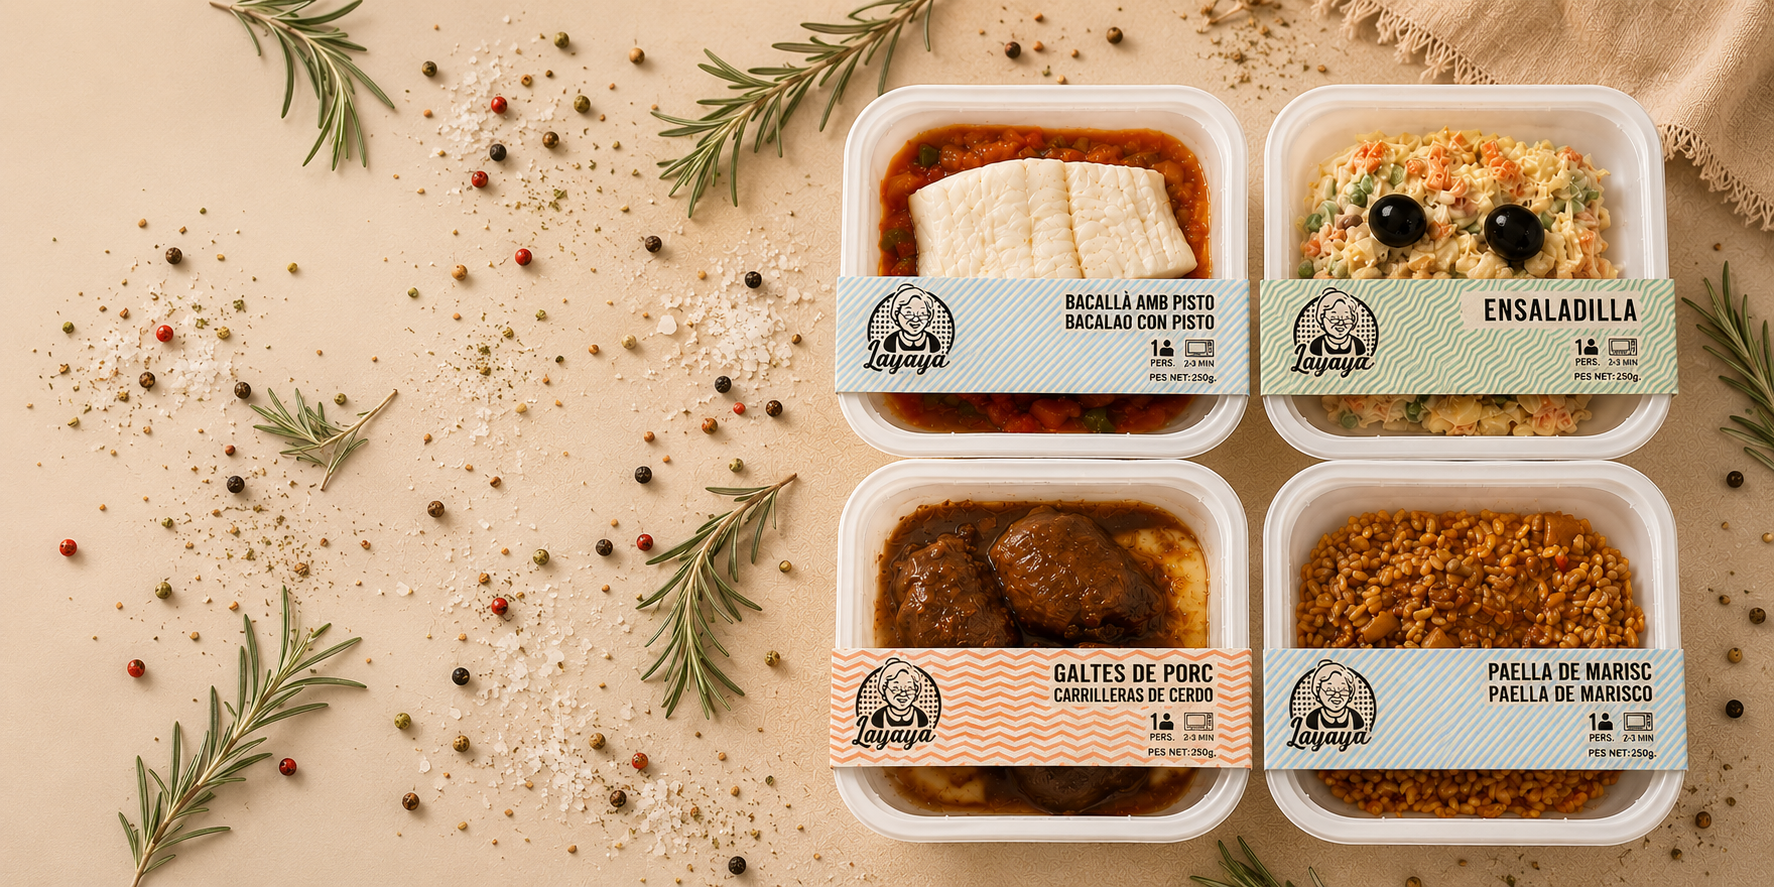
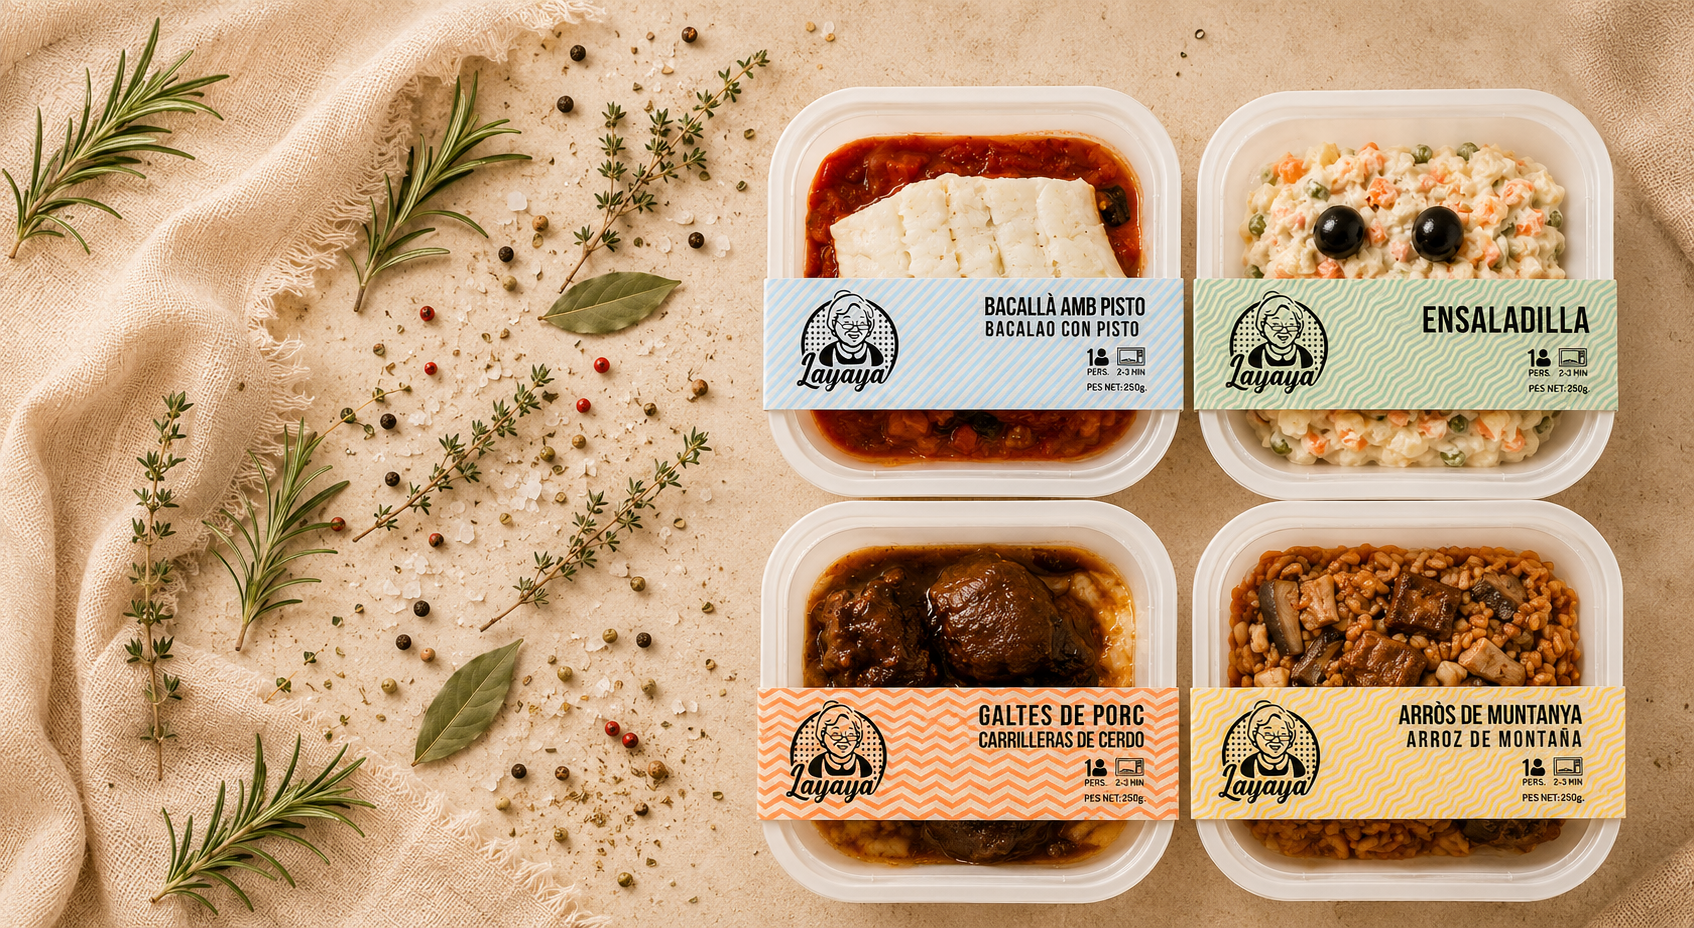
Replace linia cards images with cocina_layaya and tiendas_layaya

diff --git a/index.html b/index.html
@@ -3100,7 +3100,7 @@
 
         <!-- Layaya Alimentació -->
         <article class="linia-card linia-card-verd">
-          <img class="linia-prod-img" src="img/arros_muntanya.webp" alt="Layaya Alimentació" loading="lazy"
+          <img class="linia-prod-img" src="img/cocina_layaya.webp" alt="Layaya Alimentació" loading="lazy"
             decoding="async">
 
           <div class="linia-top">
@@ -3164,7 +3164,7 @@
 
         <!-- Layaya Botigues -->
         <article class="linia-card linia-card-daurat">
-          <img class="linia-prod-img" src="img/arros_muntanya.webp" alt="Layaya Botigues" loading="lazy"
+          <img class="linia-prod-img" src="img/tiendas_layaya.webp" alt="Layaya Botigues" loading="lazy"
             decoding="async">
 
           <div class="linia-top">
